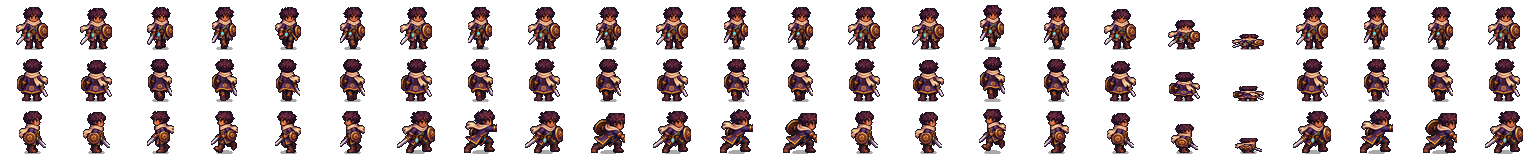
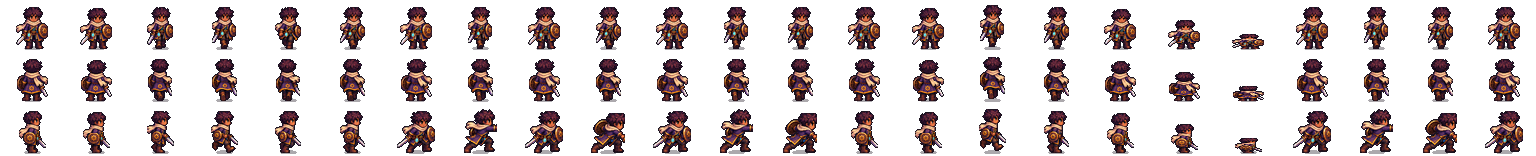
fix: Yggnus faces where he walks; Yame's bindings become iron chains
The side walk frames from the user's sheet looked left while the rest of
the side row looks right, so walking sideways looked backwards. They are
mirrored now, with a test that compares each walk frame to the idle one.
The bindings holding the workshop door are drawn as heavy iron chains and
the texts say "correntes" (user feedback, 2026-11-13).

Story: design/gdd/salas-pintadas.md §3.2

Claude-Session: https://claude.ai/code/session_0129b5S34zGDmMBPb7tpAKcU

Changed region(s): [[0.0938, 0.7179, 0.25, 0.9744], [0.625, 0.7179, 0.7188, 0.9744]]

diff --git a/tools/art/yggnus_referencia.py b/tools/art/yggnus_referencia.py
@@ -70,6 +70,9 @@ def build():
     sheet = Image.open(SOURCE)
     idle = {d: pose(sheet, b, BG, HEIGHT)[0] for d, b in IDLE.items()}
     walk = {d: [pose(sheet, b, BG, HEIGHT)[0] for b in boxes] for d, boxes in WALK.items()}
+    # Na folha do usuário os passos de lado olham para a esquerda, e o resto
+    # da linha de lado olha para a direita: espelha para Yggnus não andar de costas.
+    walk["side"] = [f.transpose(Image.Transpose.FLIP_LEFT_RIGHT) for f in walk["side"]]
     # O ataque usa a escala do preparo, para o braço esticado não encolher.
     ready, s = pose(sheet, ATTACK[0]["box"], BG, HEIGHT)
     attack = [ready] + [pose(sheet, a["box"], BG, cut=a["cut"], scale=s)[0] for a in ATTACK[1:]]

diff --git a/production/qa/smoke-2026-11-11-praca-pintada.md b/production/qa/smoke-2026-11-11-praca-pintada.md
@@ -96,3 +96,16 @@ Spec: `design/gdd/salas-pintadas.md`. Build: teste20 (inclui teste19).
   `sinos_01.png`, `torre-01_base.png`, `torre-02_guardas.png`,
   `torre-03_antecamara.png`, `torre-04_igris.png` (sino de Igris aceso no
   alto da parede durante a mostra da ordem).
+
+## 2026-11-13: Yggnus andando de lado e correntes de Yame (teste25)
+
+- Os quadros de andar de lado vinham da folha do usuário olhando para a
+  esquerda; agora são espelhados em `tools/art/yggnus_referencia.py`.
+  Teste novo `test_yggnus_walks_sideways_facing_where_he_goes`: falhou com a
+  folha antiga e passa com a nova.
+- As amarras de Yame viraram correntes de ferro (elos com contorno escuro,
+  estaca com um elo por golpe, rachadura depois do primeiro golpe, faíscas
+  ao partir). Textos do objetivo e avisos passaram a dizer "correntes".
+- Suíte completa: 313 de 313.
+- Evidência: `production/qa/evidence/personagens/05_andando_direita.png`,
+  `06_andando_esquerda.png`, `07_correntes_yame.png`.
